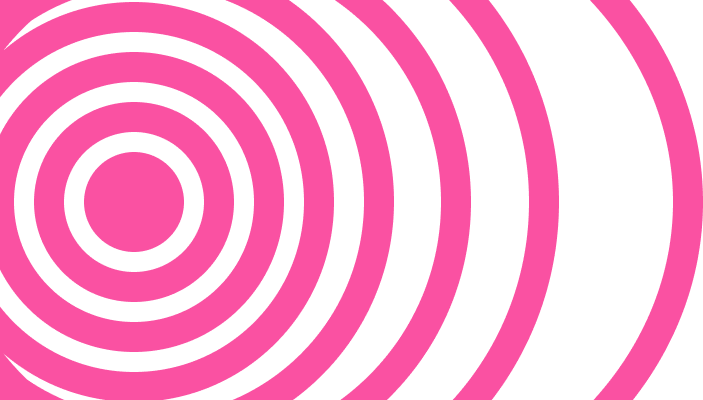
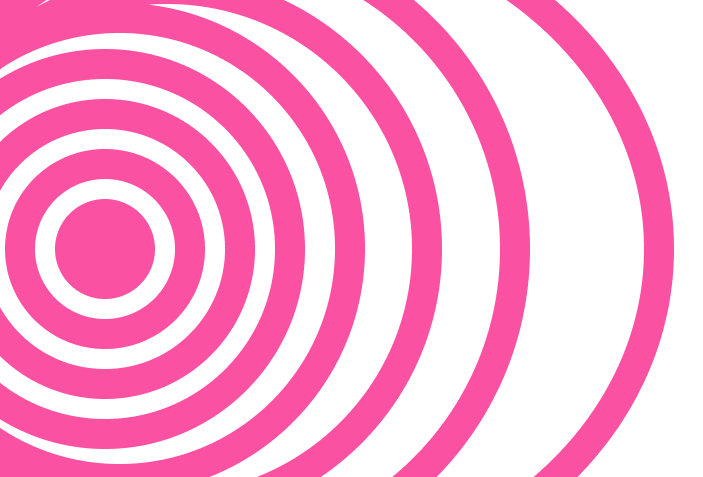
ll

diff --git a/css/style.css b/css/style.css
@@ -112,27 +112,30 @@
     position: relative;
     display: flex;
     align-items: center;
-    justify-content: flex-start;
+    overflow: hidden;
+
     
  }
 
 .photo-3{
    position: absolute;
-   width: 703px;
-   height: 400px;
-   background-size: cover;
-   background-repeat: no-repeat;
+   width: 100%;
+   height: 100%;
    object-fit: contain;
+   object-position: left center;
    z-index: 2;
+   display: block;
+   margin-left: -20px;
 }
 
 .text_5{
-   padding-left: 350px;
+   margin-left: 40%;
    font-family: 'Inter';
    font-size: 300px;
    color: #A609F0;
    font-weight: normal;
    z-index: 3;
+   position: relative;
   }
 
  .level-container-bottom {
